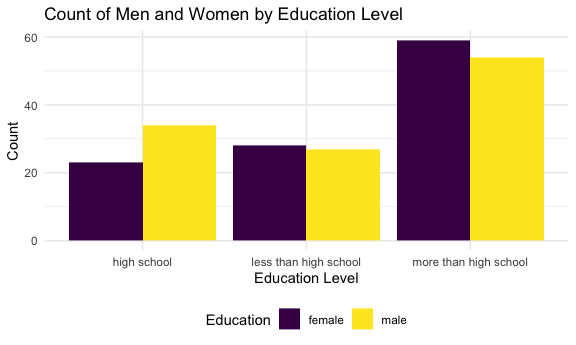
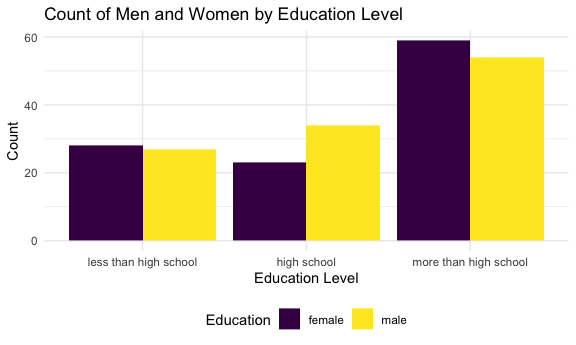
Write descrptions for each plot

diff --git a/p8105_hw3_hmz2105.md b/p8105_hw3_hmz2105.md
@@ -71,7 +71,8 @@ instacart |>
   filter (n_obs > 10000) |>
    ggplot(aes(x = reorder(aisle_id, n_obs), y = n_obs)) +
   geom_bar(stat = "identity") +
-  labs(title = "Number of Items Ordered From Each Aisle (if greater than 1000 items)",
+  labs(title = "Number of Items Ordered From Each Aisle 
+       (if greater than 1000 items)",
        x = "Aisle Number",
        y = "Number of Items Ordered")  +
   viridis::scale_fill_viridis(
@@ -81,6 +82,76 @@ instacart |>
 ```
 
 <img src="p8105_hw3_hmz2105_files/figure-gfm/plot the number items ordered from aisles-1.png" width="90%" />
+
+Aisles 83 and 24 are the most ordered from aisles, which are the fresh
+vegetables and fruit aisles. Packaged vegetables and fruits are the next
+ordered from aisle (123).
+
+- Make a table showing the three most popular items in each of the
+  aisles “baking ingredients”, “dog food care”, and “packaged vegetables
+  fruits”. Include the number of times each item is ordered in your
+  table.
+
+``` r
+instacart |>
+  filter(aisle =="baking ingredients" | aisle == "dog food care"| aisle == "packaged vegetables fruits") |>
+  group_by(aisle) |>
+  count(product_name, name = "n_obs") |>
+  arrange(desc(n_obs)) |>
+  slice_head(n = 3) |>
+  knitr::kable()
+```
+
+| aisle                      | product_name                                  | n_obs |
+|:---------------------------|:----------------------------------------------|------:|
+| baking ingredients         | Light Brown Sugar                             |   499 |
+| baking ingredients         | Pure Baking Soda                              |   387 |
+| baking ingredients         | Cane Sugar                                    |   336 |
+| dog food care              | Snack Sticks Chicken & Rice Recipe Dog Treats |    30 |
+| dog food care              | Organix Chicken & Brown Rice Recipe           |    28 |
+| dog food care              | Small Dog Biscuits                            |    26 |
+| packaged vegetables fruits | Organic Baby Spinach                          |  9784 |
+| packaged vegetables fruits | Organic Raspberries                           |  5546 |
+| packaged vegetables fruits | Organic Blueberries                           |  4966 |
+
+Among baking ingredients, light brown sugar is the most ordered item and
+was ordered 499 times. Among dog food care, Snack Sticks Chicken & Rice
+Recipe Dog Treats is the most ordered item and was ordered 30 times.
+Among packaged vegetables and fruits, organic baby spinach is the most
+ordere item and was ordered 9,785 times.
+
+- Make a table showing the mean hour of the day at which Pink Lady
+  Apples and Coffee Ice Cream are ordered on each day of the week;
+  format this table for human readers (i.e. produce a 2 x 7 table).
+
+``` r
+instacart |>
+  filter(product_name =="Pink Lady Apples" | product_name == "Coffee Ice Cream") |>
+  group_by(product_name, order_dow) |>
+  summarize (mean_hour = mean(order_hour_of_day)) |>
+   mutate(
+ order_dow = case_match(
+    order_dow, 0~ 'Sunday', 1 ~ 'Monday', 2~'Tuesday', 3~'Wednesday', 4~'Thursday', 5~'Friday', 6~'Saturday')) |>
+  pivot_wider(
+    names_from = order_dow,
+    values_from = mean_hour
+  ) |>
+ knitr::kable(digits = 2, caption = "Mean Hour of the Day per Week Day That Items are Ordered")
+```
+
+    ## `summarise()` has grouped output by 'product_name'. You can override using the
+    ## `.groups` argument.
+
+| product_name     | Sunday | Monday | Tuesday | Wednesday | Thursday | Friday | Saturday |
+|:-----------------|-------:|-------:|--------:|----------:|---------:|-------:|---------:|
+| Coffee Ice Cream |  13.77 |  14.32 |   15.38 |     15.32 |    15.22 |  12.26 |    13.83 |
+| Pink Lady Apples |  13.44 |  11.36 |   11.70 |     14.25 |    11.55 |  12.78 |    11.94 |
+
+Mean Hour of the Day per Week Day That Items are Ordered
+
+This table shows that the largest mean hour of the day that Coffee Ice
+Cream is ordered is the 15.38 hour on Tuesday. The largest mean hour of
+the day that Pink Lady Apples is ordered is the 14.25 hour on Wednesday.
 
 ## Problem 2
 
@@ -217,8 +288,7 @@ excellent_brfss_smart2010_df |>
    geom_line(aes(group=state)) + geom_smooth() +
   theme(legend.position = "bottom")+
   labs(title = "Mean Proportion Who Responded Excellent to Overall 
-  Health Question by State 
-       Over Time",
+  Health Question by State Over Time",
     x = "Year",  
           y = "Mean Proportion Responded Excellent") 
 ```
@@ -234,7 +304,7 @@ excellent_brfss_smart2010_df |>
 This plot shows that from years 2002 through 2010 (which is the duration
 of the data) the mean proportion of participants who responded
 “excellent” to the question ” How is your overall health” was less than
-30 for every state. It seems that the most states have an “excellent”
+30 for every state. It seems that most states have an “excellent”
 response of about 0.22%. Overall there appears to be a decreasing trend
 for the “excellent” response over time.
 
@@ -274,10 +344,12 @@ counties Bronx, Erie, and Monroe were not included in 2006.
 This problem includes data from NHANES regarding participant demographic
 information and accelerometer data.
 
-Import demographic data. Skip first 4 rows as they are notes. Remove
+- Firt, will import, clean, and merge data.
+
+Iimport demographic data. Skip first 4 rows as they are notes. Remove
 participants younger than 21 and those with missing data. Recode sex as
 1= male and 2= female and education as 1=less than high school, 2= high
-school, 3=more than high school. Next convert education to a factor.
+school, 3=more than high school. Make education a factor variable.
 
 ``` r
 Demographic_df = 
@@ -289,7 +361,8 @@ Demographic_df =
  sex = case_match(
     sex, 2~ 'female', 1 ~ 'male'),
  education = case_match(
-   education, 1 ~ "less than high school", 2 ~ "high school", 3~ "more than high school")) |> mutate (education = as.factor(education))
+   education, 1 ~ "less than high school", 2 ~ "high school", 3~ "more than high school")) |>
+  mutate(education = forcats::fct_relevel(education, c("less than high school", "high school", "more than high school")))
 ```
 
     ## Rows: 250 Columns: 5
@@ -331,8 +404,8 @@ MIMS_df =
   inner_join(Demographic_df, accel_df, by="seqn")
 ```
 
-Next determine the number of men and women in each education level.
-Represent this data in both table and visual format.
+- Next determine the number of men and women in each education level.
+  Represent this data in both table and visual format.
 
 ``` r
 MIMS_df |> 
@@ -345,10 +418,10 @@ MIMS_df |>
   knitr::kable(digits = 2)
 ```
 
-| sex    | high school | less than high school | more than high school |
-|:-------|------------:|----------------------:|----------------------:|
-| female |          23 |                    28 |                    59 |
-| male   |          34 |                    27 |                    54 |
+| sex    | less than high school | high school | more than high school |
+|:-------|----------------------:|------------:|----------------------:|
+| female |                    28 |          23 |                    59 |
+| male   |                    27 |          34 |                    54 |
 
 ``` r
 MIMS_df |> 
@@ -374,16 +447,14 @@ Majority of men and women in this dataset have more than a high school
 degree (n=59 for women and n=54 for men). More men had less than a high
 school degree than women (34 vs 23).
 
-Next aggregate accelerometer data for each participant and create a
-variable called total_activity. Next create a scatter plot of total
-activity for each participant by age, and compare males to females and
-also group by education.
+- Next aggregate accelerometer data for each participant and create a
+  scatter plot of the aggregated accelerometer data for each participant
+  by age, and compare males to females and also group by education.
 
 ``` r
 MIMS_df |> 
   group_by(seqn) |>
  mutate(total_activity = sum(minute_value)) |>
-    mutate(education = forcats::fct_relevel(education, c("less than high school", "high school", "more than high school"))) |> 
   ggplot(aes(x = age, y = total_activity, color = sex)) +
     geom_point() +
   geom_smooth() + 
@@ -400,9 +471,16 @@ MIMS_df |>
 
 <img src="p8105_hw3_hmz2105_files/figure-gfm/aggregate accelerometer data for each participant and plot-1.png" width="90%" />
 
-Next aggregate accelerometer data by minute to create a variable of mean
-activity. Then create a scatter plot of mean activity per minute of the
-day comparing males to females and grouped by education.
+This plot shows that for every education level, females that are young
+(less than age 40) have higher total daily accelerometer data than
+males. For people with less than a high school degree, it seems that
+around age 50, males begin to have higher total daily accelerometer data
+than females. For the other education levels, females seem to have
+mostly higher values regardless of age.
+
+- Next aggregate accelerometer data by minute to create a variable of
+  mean activity. Then create a scatter plot of mean activity per minute
+  of the day comparing males to females and grouped by education.
 
 ``` r
 MIMS_df|>
@@ -424,3 +502,10 @@ MIMS_df|>
     ## `geom_smooth()` using method = 'gam' and formula = 'y ~ s(x, bs = "cs")'
 
 <img src="p8105_hw3_hmz2105_files/figure-gfm/aggregate accelerometer data by minute-1.png" width="90%" />
+
+This graph shows that for every education level, participants have lower
+mean accelerometer values earlier in the day (time 0-400), then there is
+a sharp increase with a peak at time 700, and then the values start to
+decline. For every education level, it seems that males have slightly
+higher mean values from time 0-400 but then females have higher mean
+values than makes for the late time points.
